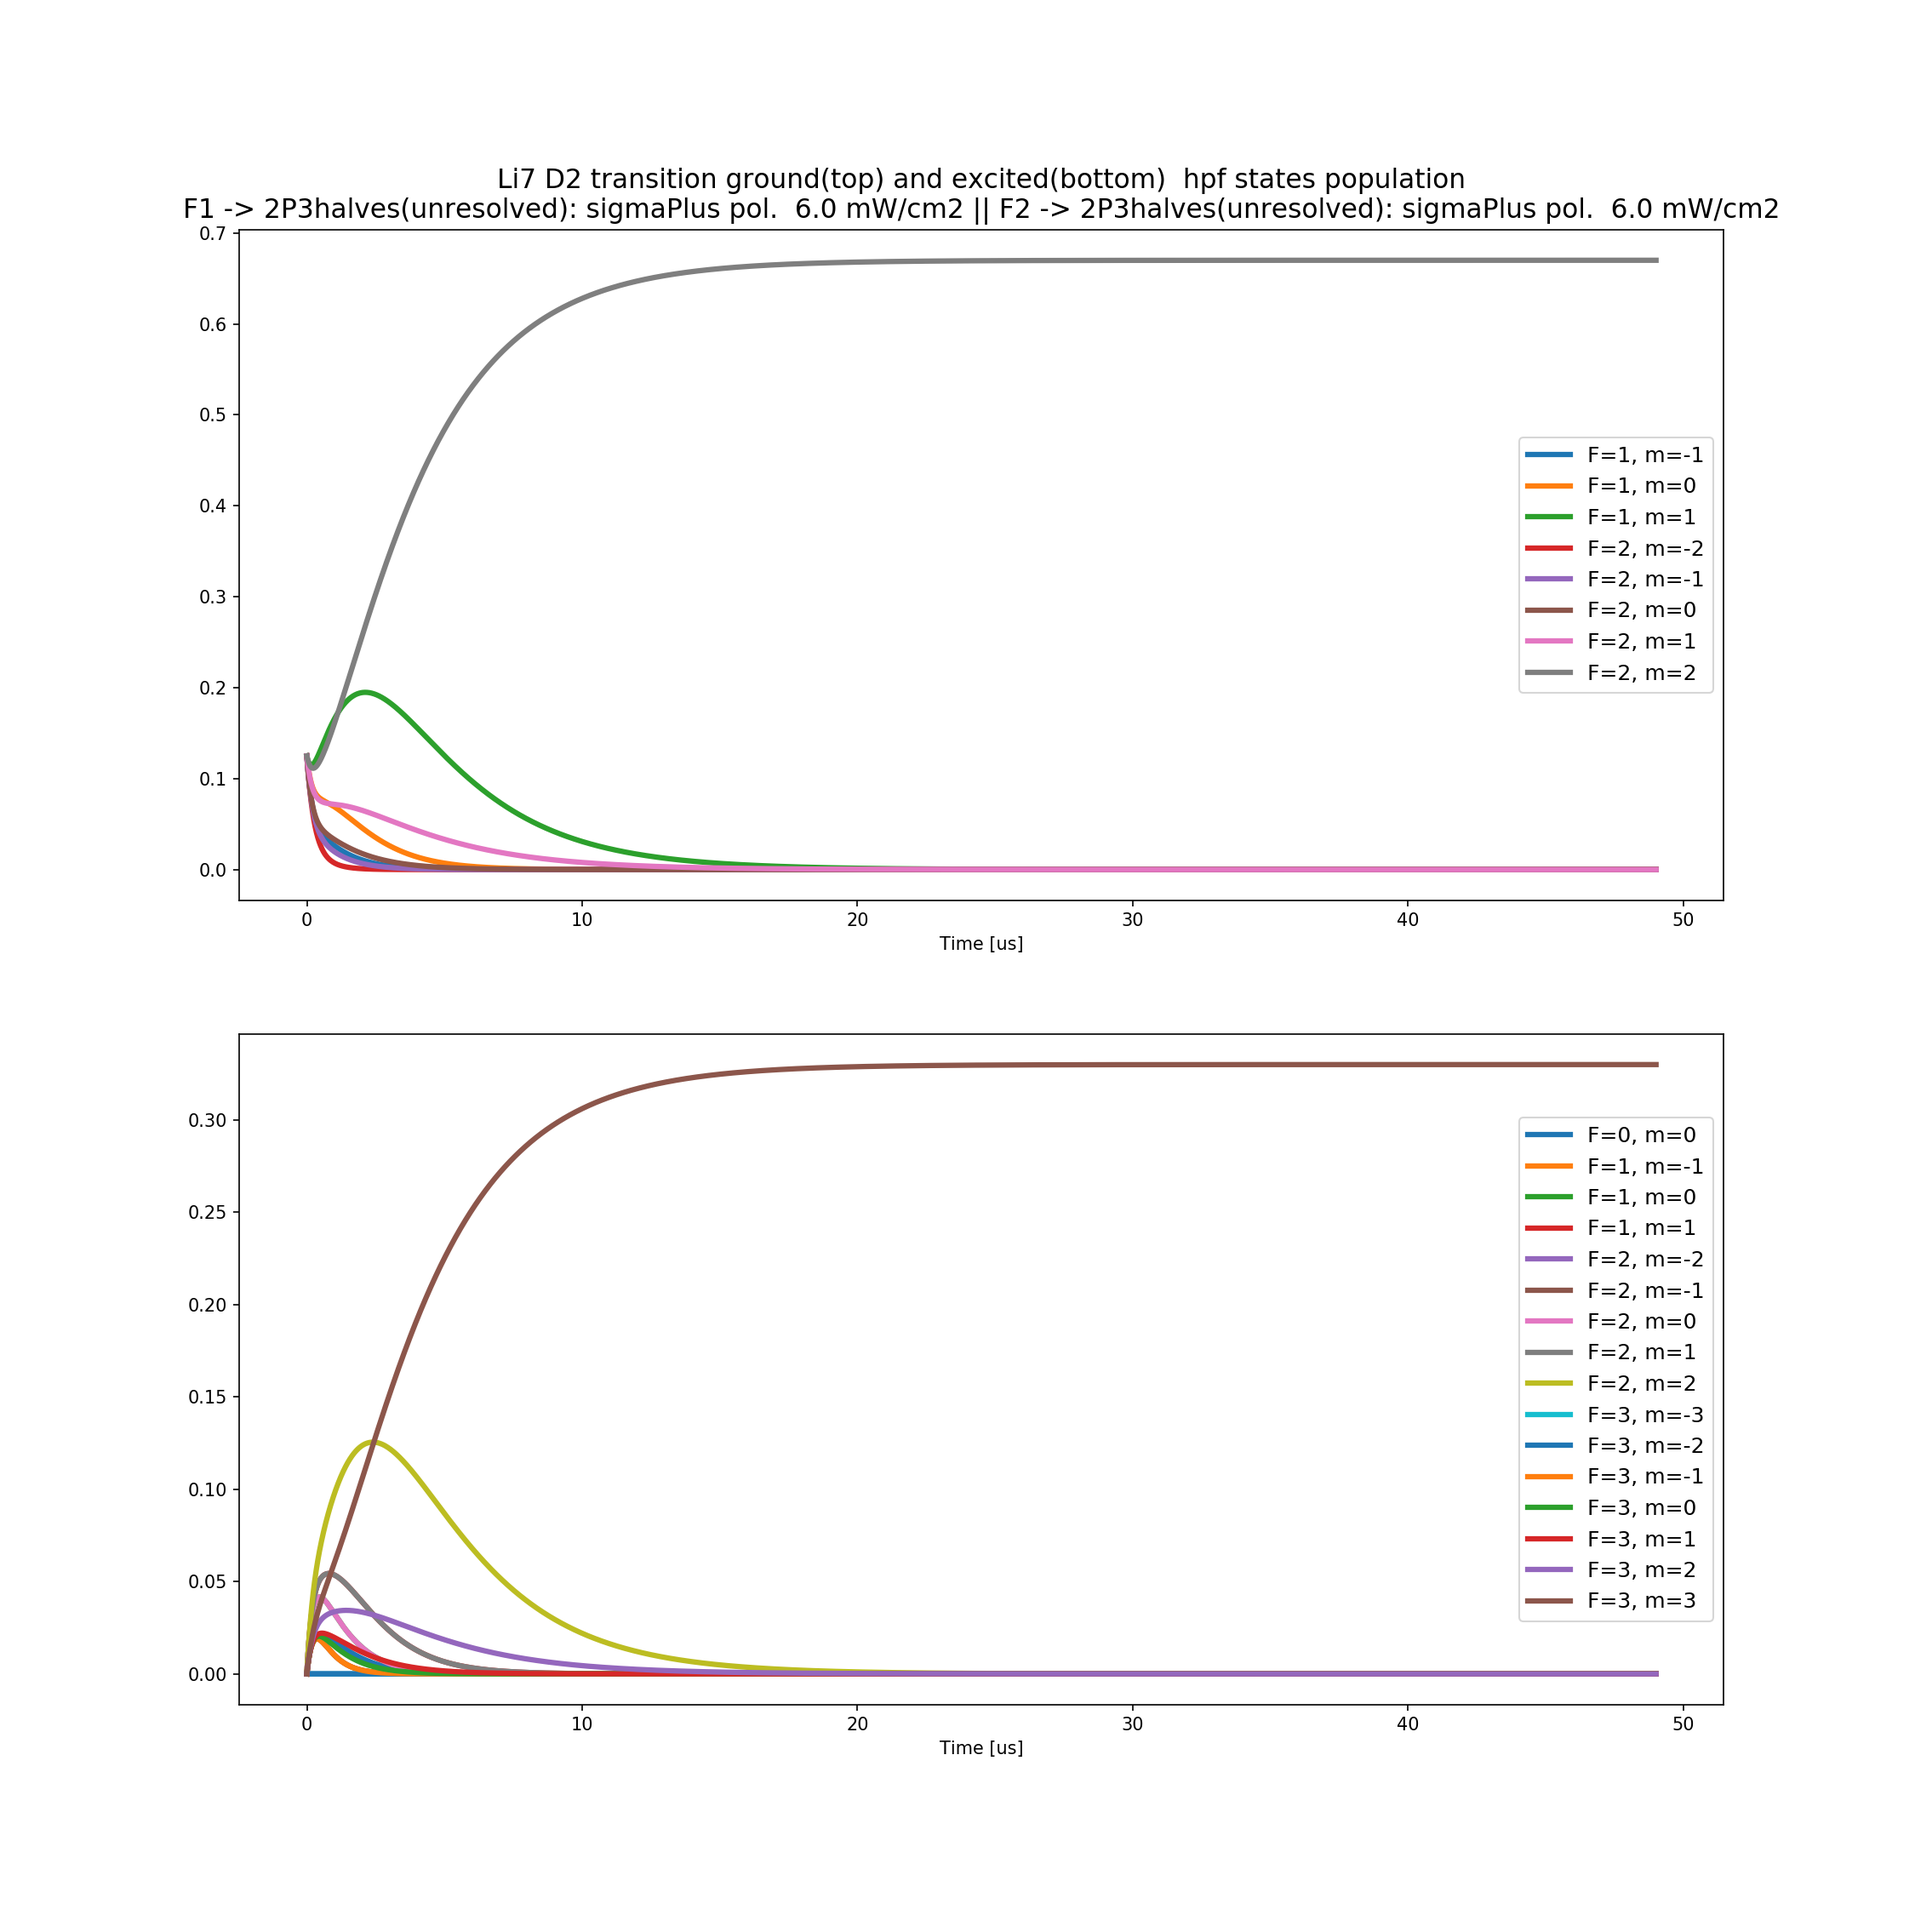
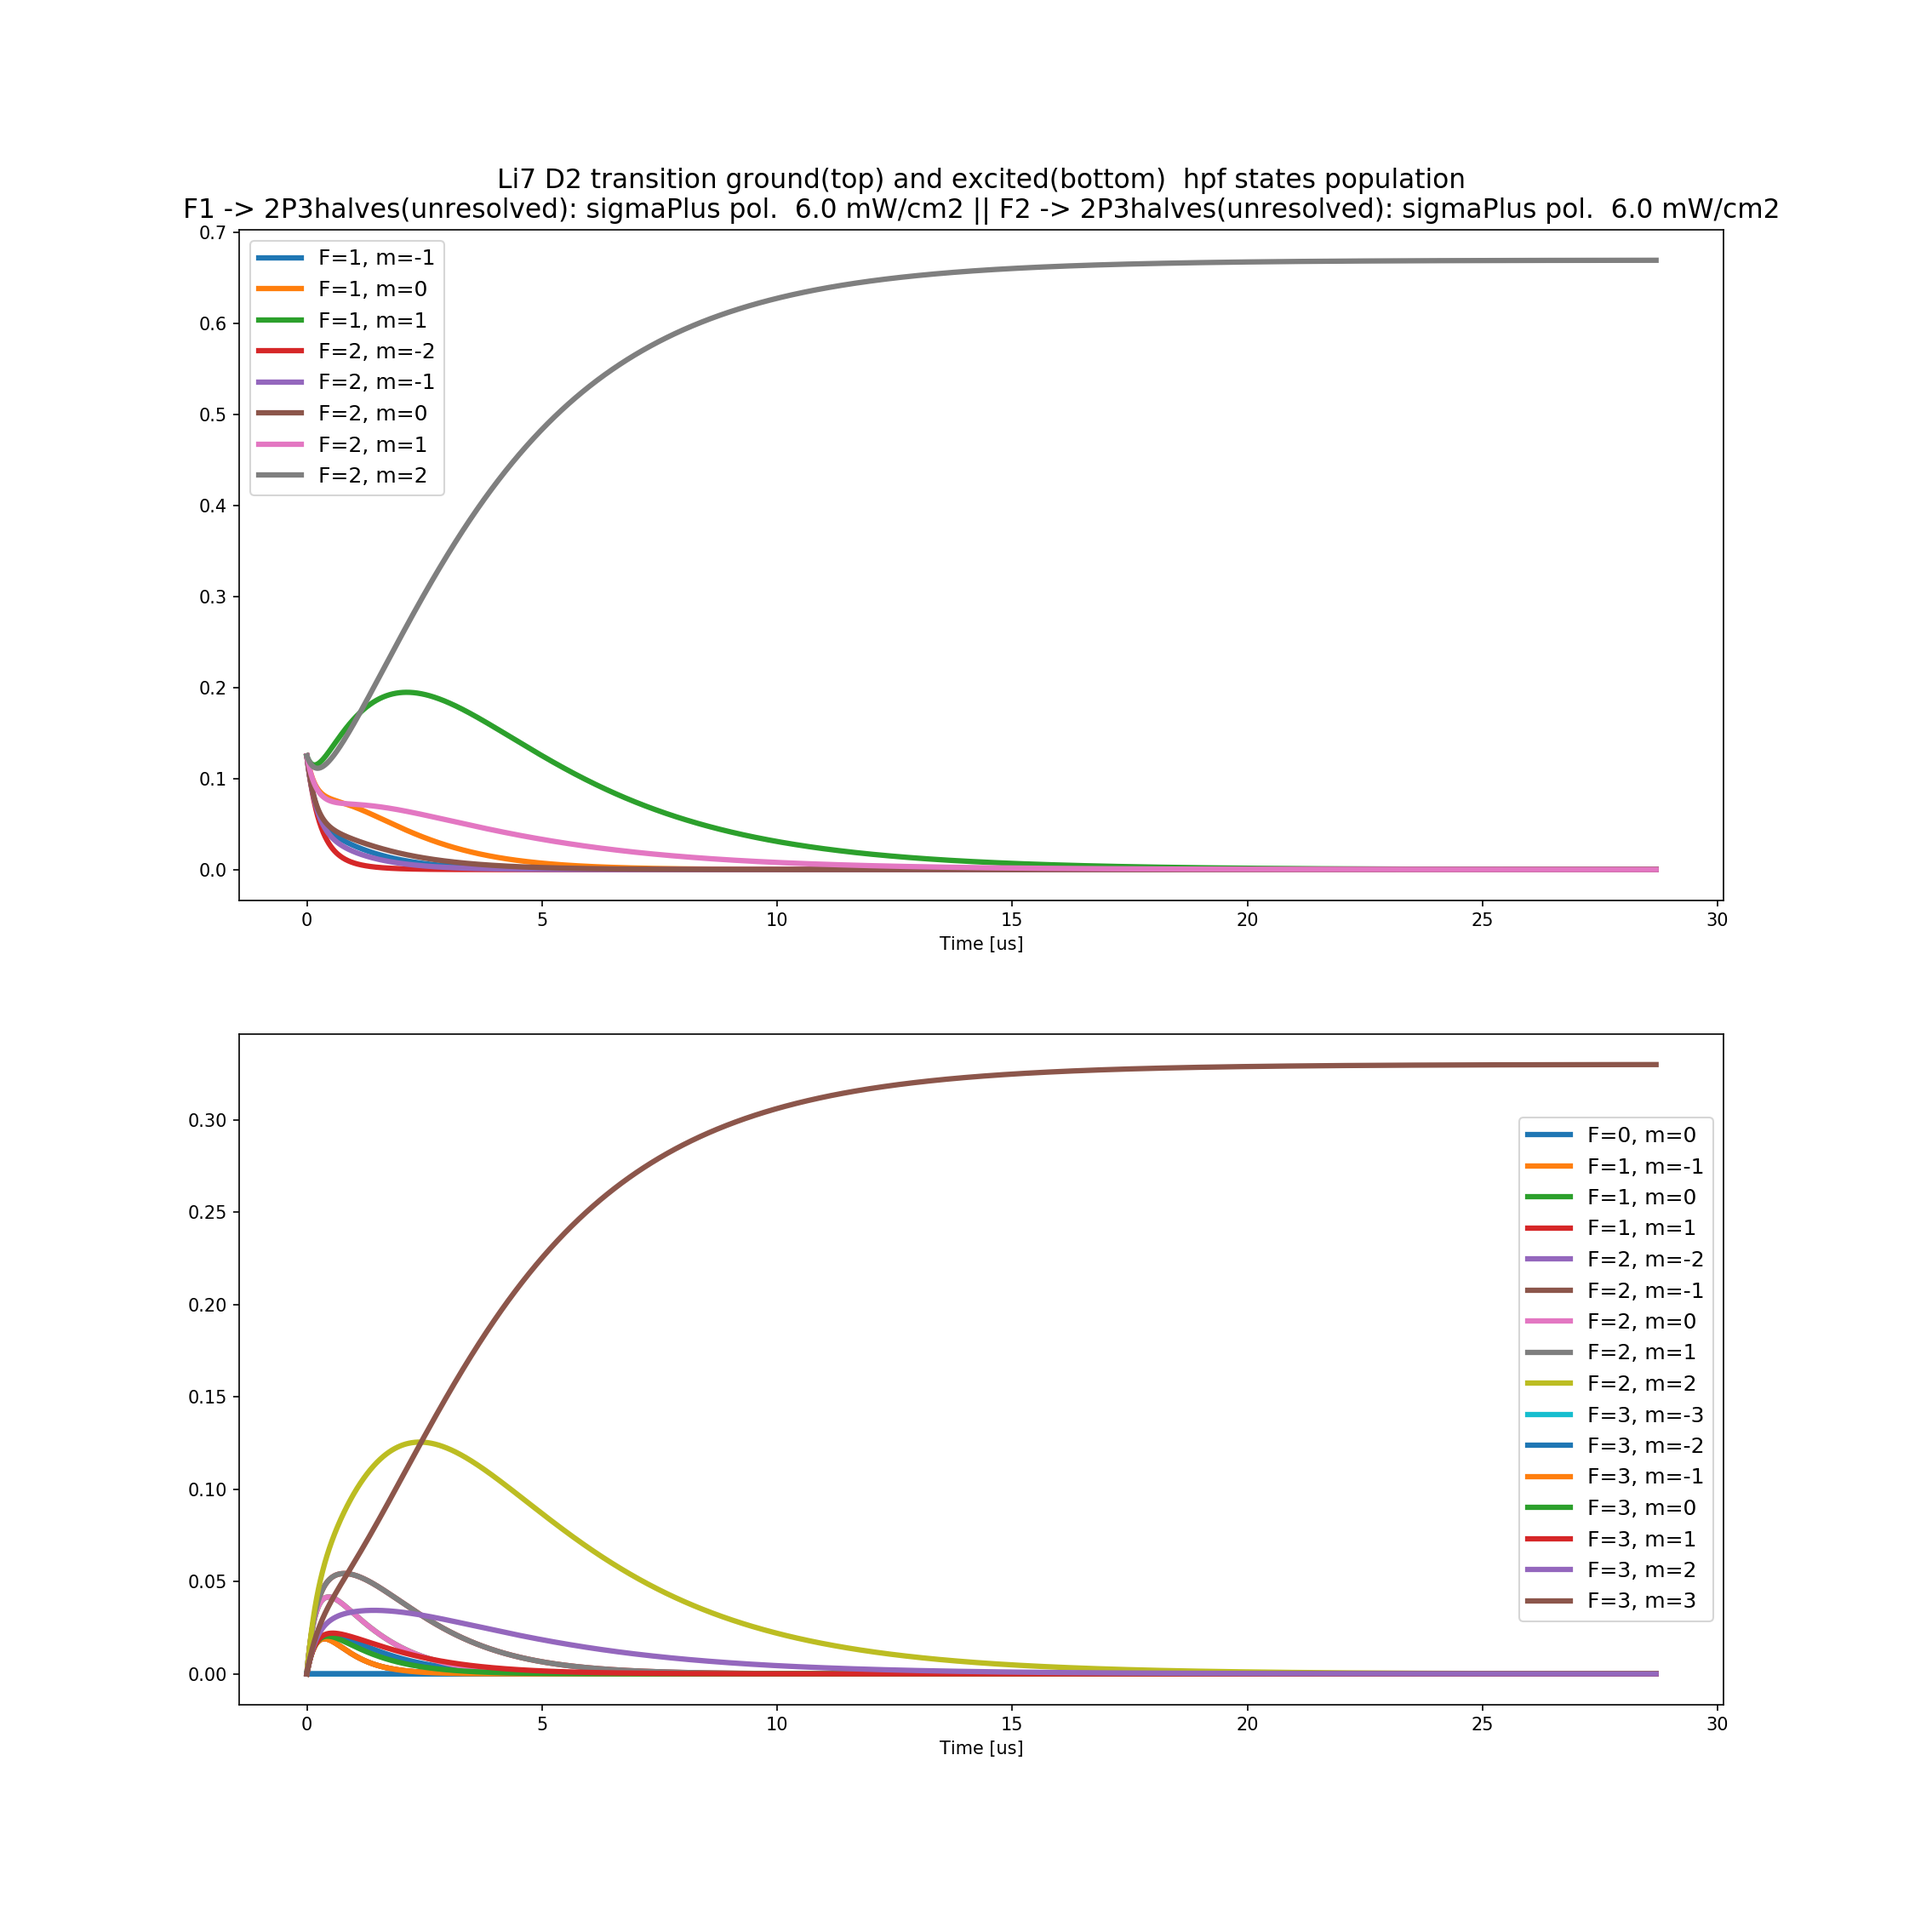
remove fucn findSteadyState

diff --git a/functions.py b/functions.py
@@ -9,9 +9,9 @@
 # 
 # Created: Mon Oct  9 10:16:45 2017 (-0500)
 # Version: 
-# Last-Updated: Sun Oct 15 17:20:35 2017 (-0500)
+# Last-Updated: Sun Oct 15 22:03:21 2017 (-0500)
 #           By: yulu
-#     Update #: 215
+#     Update #: 256
 # 
 
 
@@ -61,11 +61,12 @@ def runSimu(Dline,
     # Initialization of population dictionary 
     popG = {} # Ground states population dictionary, dic of list of 2d array
     popE = {} # Excited states population dictionary, dic of list of 2d array
-    #numSteps = int(100e-6/dt) if autoStop else int(maxSimulationTime / dt)
+
     numSteps = int(maxSimulationTime / dt)
 
     
     autoStop = True
+    steadyIdx = 0
     breakIdx = 0
     for i in range(numSteps):
         if i == 0:
@@ -74,11 +75,7 @@ def runSimu(Dline,
             popG['F2'] = [p.pop_Ground['F2']]
             for f in p.eStates:
                 popE[f] = [p.pop_Excited[f]]
-            maxF1 = popG['F1'][0][0]
-            minF1 = popG['F1'][0][0]
-            checkKey = list(popE.keys())[-1]
-            maxE = popE[checkKey]
-            minE = maxE
+            sumE = popG['F2'][0].sum()
         else:
             newPopG = p.calGroundPop(popG, popE, i-1, I1, I2, detune1, detune2, dt)
             newPopE = p.calExcitedPop(popG, popE, i-1, I1, I2, detune1, detune2, dt)
@@ -93,75 +90,20 @@ def runSimu(Dline,
                 return 0
 
             # Check if steady state reached, then auto break loop
-            if autoStop:
-                changeIndicator = False
-                if (newPopE[checkKey][0] > maxE).any():
-                    maxE = np.array([max(x, y) for x, y in zip(maxE, newPopE[checkKey][0])])
-                    changeIndicator = True
-                elif (newPopE[checkKey][0] < minE).any():
-                    minE = np.array([min(x, y) for x, y in zip(minE, newPopE[checkKey][0])])
-                    changeIndicator = True
+            if autoStop and i > 10:
+                if (abs(popG['F2'][i - 5] - popG['F2'][i])  <  1000 * dt).all():
+                    steadyIdx = i
+                    breakIdx = steadyIdx + int(5e-6 / dt)
+                    autoStop = False
                 else:
                     pass
-                '''
-                if (newPopG['F1'][0] > maxF1).any():
-                    maxF1 = np.array([max(x, y) for x,y in zip(maxF1, newPopG['F1'][0])])
-                    changeIndicator = True
-                if (minF1 > 1e-6).any() and (newPopG['F1'][0] < minF1).any():
-                    minF1 = np.array([min(x, y) for x,y in zip(minF1, newPopG['F1'][0])])
-                    changeIndicator = True
-                '''
-                if not changeIndicator:
-                    breakIdx = i + int(5e-6 / dt)
-                    autoStop = False
-            ###
-            '''
-            if autoStop and i > 10 and (abs(np.average(popG['F2'][i-10:i-5])- np.average(popG['F2'][i-5:i])) < 1e-6).all() :
-                breakIdx = i - 5 + int(5e-6 / dt) # add extral 5 us to simulate 
-                autoStop = False
-            '''
-            ### 
+
             if i == breakIdx:
                 print('\n[*] Steady state reached ! Auto stop ...')
                 autoStop = True
                 break
     clock = np.linspace(0, dt * breakIdx, breakIdx+1) if breakIdx else np.linspace(0, maxSimulationTime, numSteps) # in seconds 
-    return (clock, popG, popE)
-
-
-def findSteadyState(clock, popGround, popExcited):
-    """
-    Find the time for optical pumping to reach 
-    steady states and correspongding population 
-    for each ground and excited hpf states
-    """
-
-    maxF1 = popGround['F1'][0][0]
-    minF1 = popGround['F1'][0][0]
-    
-    steadyIdx = 0
-    for i in range(1, len(clock)):
-        
-        update = False
-        if (maxF1 < popGround['F1'][i][0]).any():
-            maxF1 = np.array([max(x, y) for x, y in zip(maxF1, popGround['F1'][i][0])])
-            update = True
-        elif (minF1 > 1e-6).any() and  (minF1 > popGround['F1'][i][0]).any():
-            minF1 = np.array([min(x, y) for x,y in zip(minF1, popGround['F1'][i][0])])
-            update = True
-        else:
-            pass
-        if not update:
-            steadyIdx = i
-            break
-    steadyG = {}
-    steadyE = {}
-    for key in popExcited:
-        steadyE[key] = popExcited[key][steadyIdx]
-    for key in popGround:
-        steadyG[key] = popGround[key][steadyIdx]
-        
-    return clock[steadyIdx], steadyG, steadyE
+    return (clock, popG, popE, steadyIdx)
 
 def nicePrintStates(pop):
     fState = list(pop.keys())

diff --git a/singleRun.py b/singleRun.py
@@ -11,14 +11,14 @@
 # 
 # Created: Mon Oct  9 10:28:14 2017 (-0500)
 # Version: V1.0
-# Last-Updated: Wed Oct 11 17:04:19 2017 (-0500)
-#           By: superlu
-#     Update #: 77
+# Last-Updated: Sun Oct 15 22:02:12 2017 (-0500)
+#           By: yulu
+#     Update #: 86
 # 
 
 
 from plot import plotPop
-from functions import readInput, runSimu, findSteadyState, nicePrintStates
+from functions import readInput, runSimu, nicePrintStates
 
 def main():
     """
@@ -35,8 +35,9 @@ def main():
         print("No file 'singleRun.in' avaliable in ./")
         raise FileNotFoundError
 
-    clock, popG, popE = runSimu(**inputParams)
-    print("\n[*] Total simulation time: {:1.2f} us".format(clock[-1] * 1e6))
+    clock, popG, popE, steadyIdx  = runSimu(**inputParams)
+    print("\n[*] Steady population reached at {:1.2f} us".format(clock[steadyIdx] *1e6))
+    
     params = {
         "clock": clock,
         "Dline":inputParams.get('Dline'),
@@ -49,13 +50,14 @@ def main():
         "popE": popE,
         "saveFig": True}
 
-    t, steadyG, steadE = findSteadyState(clock, popG, popE)
-    if t == 0:
-        print("\nNo steady state reached, extend the simulation time\nif you want to see it saturates\n")
-    else:
-        print("\nTime for reaching steady state: {:2.2f} us\n".format(t * 1e6))
-        
+    
+    if steadyIdx:
+        print("\nTime for reaching steady state: {:2.2f} us\n".format(clock[steadyIdx] * 1e6))
+        steadyG = {'F1': popG['F1'][steadyIdx],
+                   'F2': popG['F2'][steadyIdx]}
         nicePrintStates(steadyG)
+    else:
+        print("\nNo steady state reached, extend the simulation time\nif you want to see it saturates\n")
 
     plotPop(**params)
     
